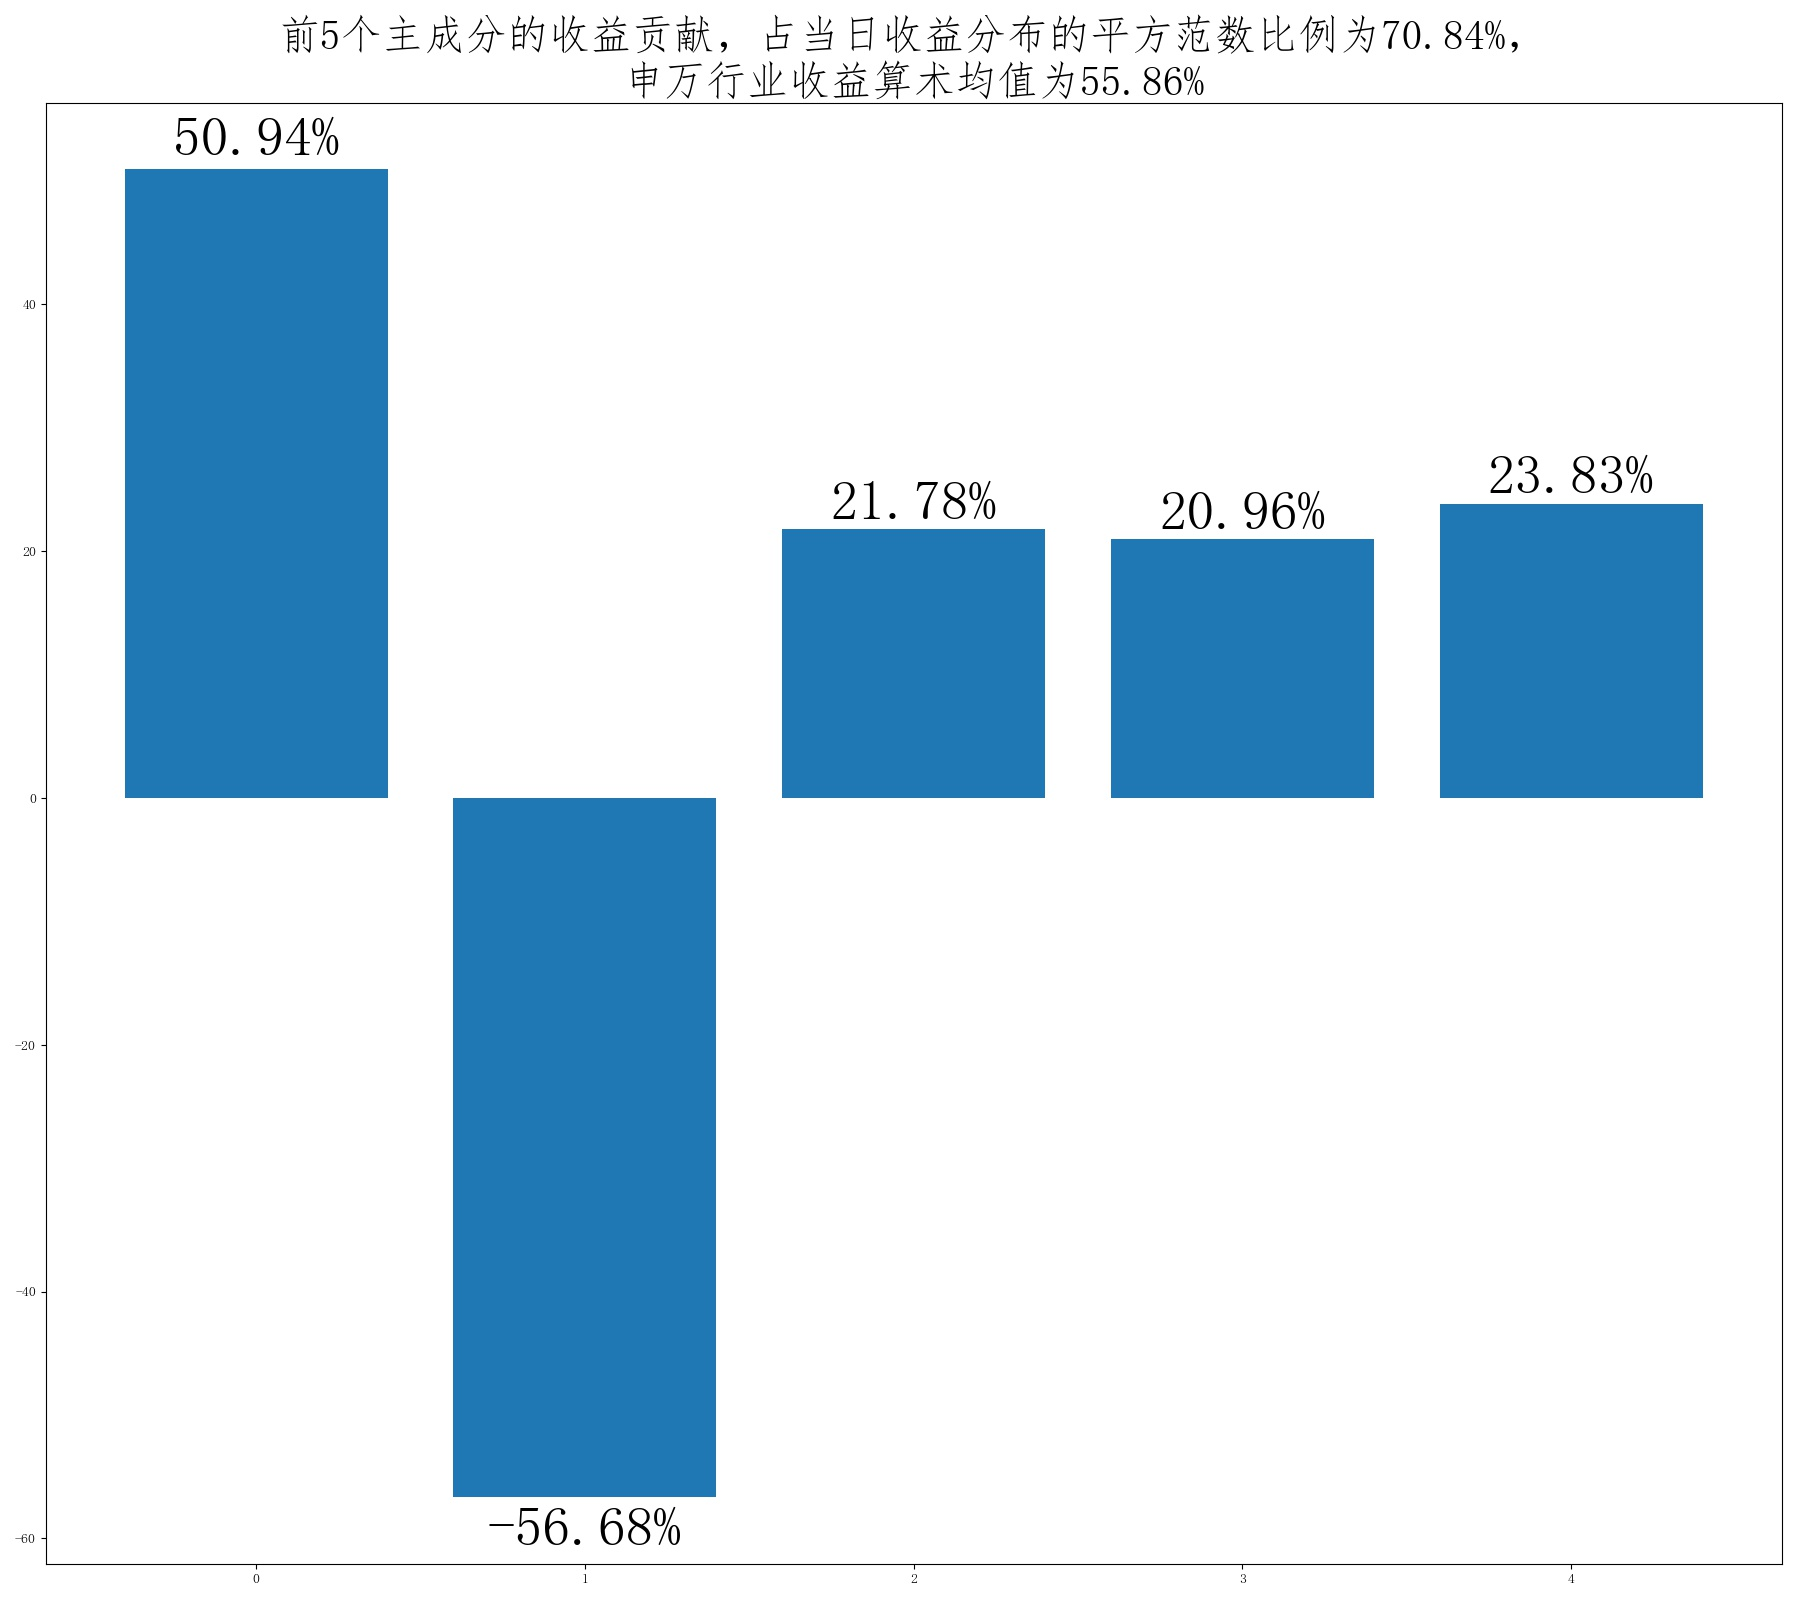
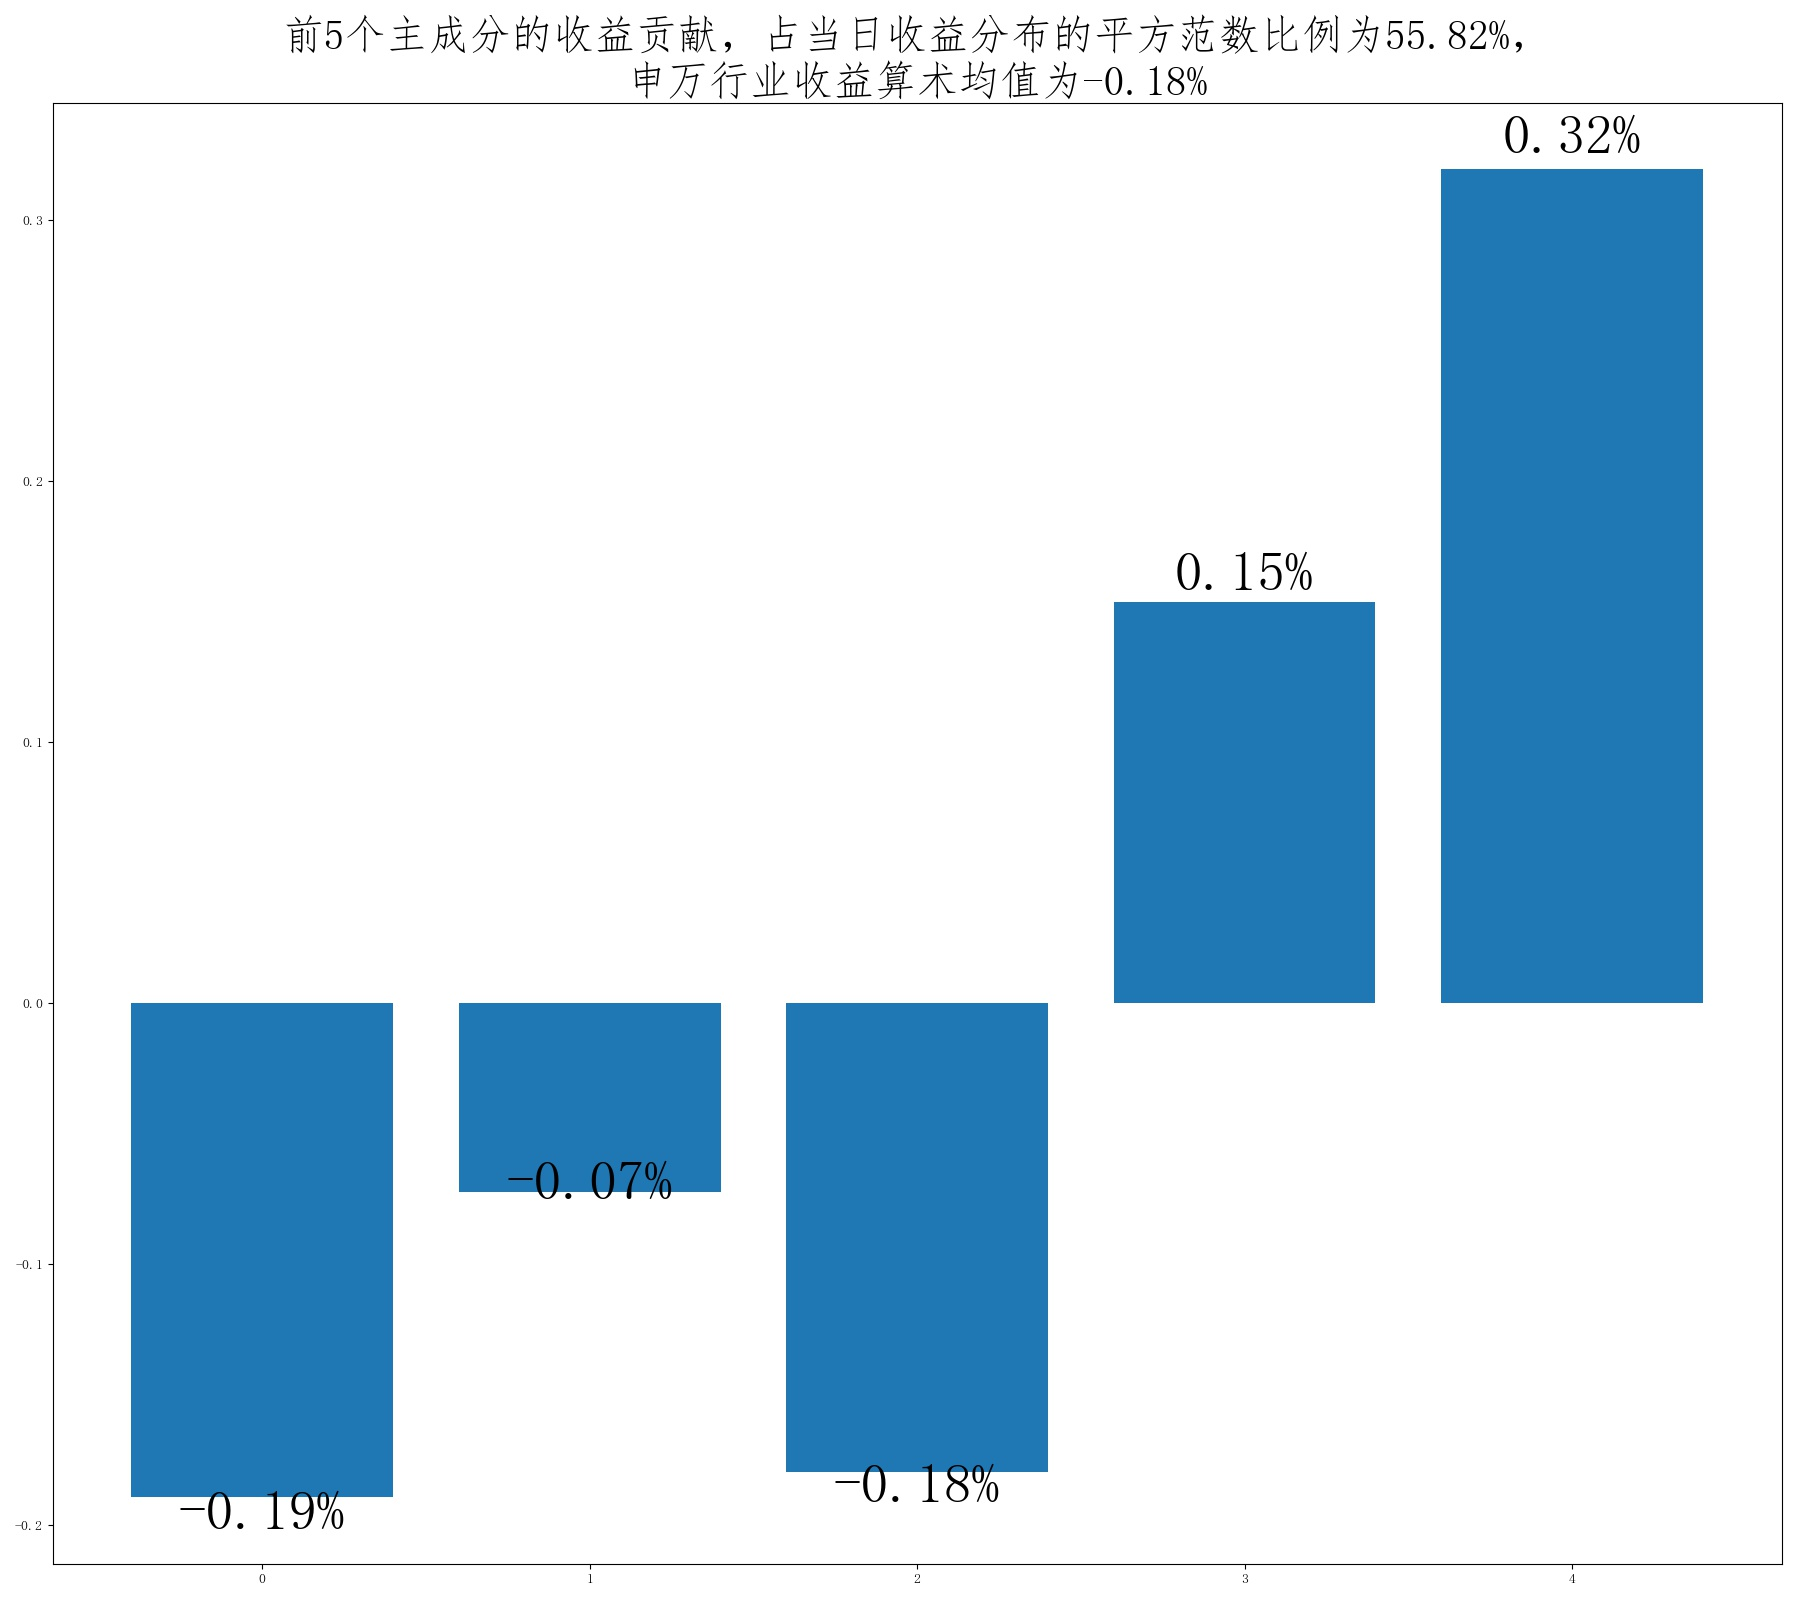
行业权重计算

diff --git a/掘金多因子开发测试/工具/持仓配置.py b/掘金多因子开发测试/工具/持仓配置.py
@@ -3,7 +3,7 @@ from WindPy import w
 import cvxopt
 import sys
 sys.path.append('D:\\programs\\多因子策略开发\\掘金多因子开发测试\\工具')
-from utils import list_wind2jq, list_jq2wind
+from utils import list_wind2jq, list_jq2wind, SW1_INDEX
 
 
 class WeightsAllocation(object):
@@ -101,7 +101,7 @@ class 方差极小化权重_基本版(WeightsAllocation):
 
     def get_weights(self):
         code_list = list_jq2wind(self.code_list)
-        (Q, p, G, h, A, b) = self._get_coef()
+        (Q, p, G, h, A, b) = self._get_coef(code_list)
         # 用CVXOPT求解方差最小的权重
         sol = cvxopt.solvers.qp(Q, p, G, h, A, b)
         # 将权重分配给代码
@@ -112,8 +112,7 @@ class 方差极小化权重_基本版(WeightsAllocation):
             code_weights[list_wind2jq([code])[0]] = weight_value[i]
         return code_weights
 
-    def _get_coef(self):
-        code_list = list_jq2wind(self.code_list)
+    def _get_coef(self, code_list):
         w.start()
         return_value = np.array(w.wsd(code_list, "pct_chg", "ED-" + str(self.N - 1) + "TD", self.date, "").Data)
         return_cov = np.cov(return_value)
@@ -128,6 +127,34 @@ class 方差极小化权重_基本版(WeightsAllocation):
         return Q, p, G, h, A, b
 
 
+class 方差极小化权重_行业版(方差极小化权重_基本版):
+    def get_weights(self):
+        code_list = list_jq2wind(self.code_list)
+        SW1_code_list = [t[0] for t in SW1_INDEX]
+        (Q, p, G, h, A, b) = self._get_coef(SW1_code_list)
+        # 用CVXOPT求解方差最小的权重
+        sol = cvxopt.solvers.qp(Q, p, G, h, A, b)
+        # 将权重分配给代码
+        weight_value = sol['x']
+        industry_list = w.wss(code_list, "indexcode_sw", "tradeDate="+self.date+";industryType=1").Data[0]
+        code_weights = {}
+        weight_value_temp = []
+        for i in range(len(code_list)):
+            code = code_list[i]
+            industry_temp = industry_list[i]
+            if industry_temp == None:  # 无行业数据的处理
+                weight_value_temp.append(0.0)
+            else:
+                industry_index = SW1_code_list.index(industry_temp)
+                weight_value_temp.append(weight_value[industry_index])
+        weight_value_temp = np.array(weight_value_temp)
+        weight_value_temp = weight_value_temp / np.sum(weight_value_temp)  # 权重归一化
+        for i in range(len(code_list)):
+            code = code_list[i]
+            code_weights[list_wind2jq([code])[0]] = weight_value_temp[i]
+        return code_weights
+
+
 if __name__ == '__main__':
-    model = 方差极小化权重_基本版(['000002.XSHE', '600000.XSHG', '002415.XSHE', '601012.XSHG'], '2018-10-25')
+    model = 方差极小化权重_行业版(['000002.XSHE', '600000.XSHG', '002415.XSHE', '601012.XSHG'], '2018-10-25')
     print(model.get_weights())

diff --git a/发布报告的策略/本杰明格雷厄姆_RSRS择时V1.py b/发布报告的策略/本杰明格雷厄姆_RSRS择时V1.py
@@ -15,7 +15,7 @@ w.start()
 
 # 回测的基本参数的设定
 BACKTEST_START_DATE = '2018-10-10'  # 回测开始日期
-BACKTEST_END_DATE = '2018-11-19'  # 回测结束日期，测试结束日期不运用算法
+BACKTEST_END_DATE = '2018-11-21'  # 回测结束日期，测试结束日期不运用算法
 INDEX = ['000300.SH']  # 股票池代码，可以用掘金代码，也可以用Wind代码
 TRADING_DATE = '10'  # 每月的调仓日期，非交易日寻找下一个最近的交易日
 

diff --git a/掘金多因子开发测试/工具/utils.py b/掘金多因子开发测试/工具/utils.py
@@ -64,6 +64,7 @@ def get_factor_from_wind(code_list, factor_list, date):
     return factors_df
 
 
+# 待修改
 # 无缓存版本
 def get_factor_from_wind_v2(code_list, factor_list, date):
     # 用单因子研究\single_factor.py中的因子类直接获取数据

diff --git a/掘金多因子开发测试/算法编写模板/PCA分析/每日收盘后PCA分析.py b/掘金多因子开发测试/算法编写模板/PCA分析/每日收盘后PCA分析.py
@@ -93,7 +93,7 @@ def plot_pca_return_values(return_oneday, n):
 
 
 # 设定计算日期函数和主成分提取参数
-END_DATE = "2018-11-19"  # 收盘计算日期
+END_DATE = "2018-11-16"  # 收盘计算日期
 N = 5
 # 读取数据
 get_data(END_DATE)
